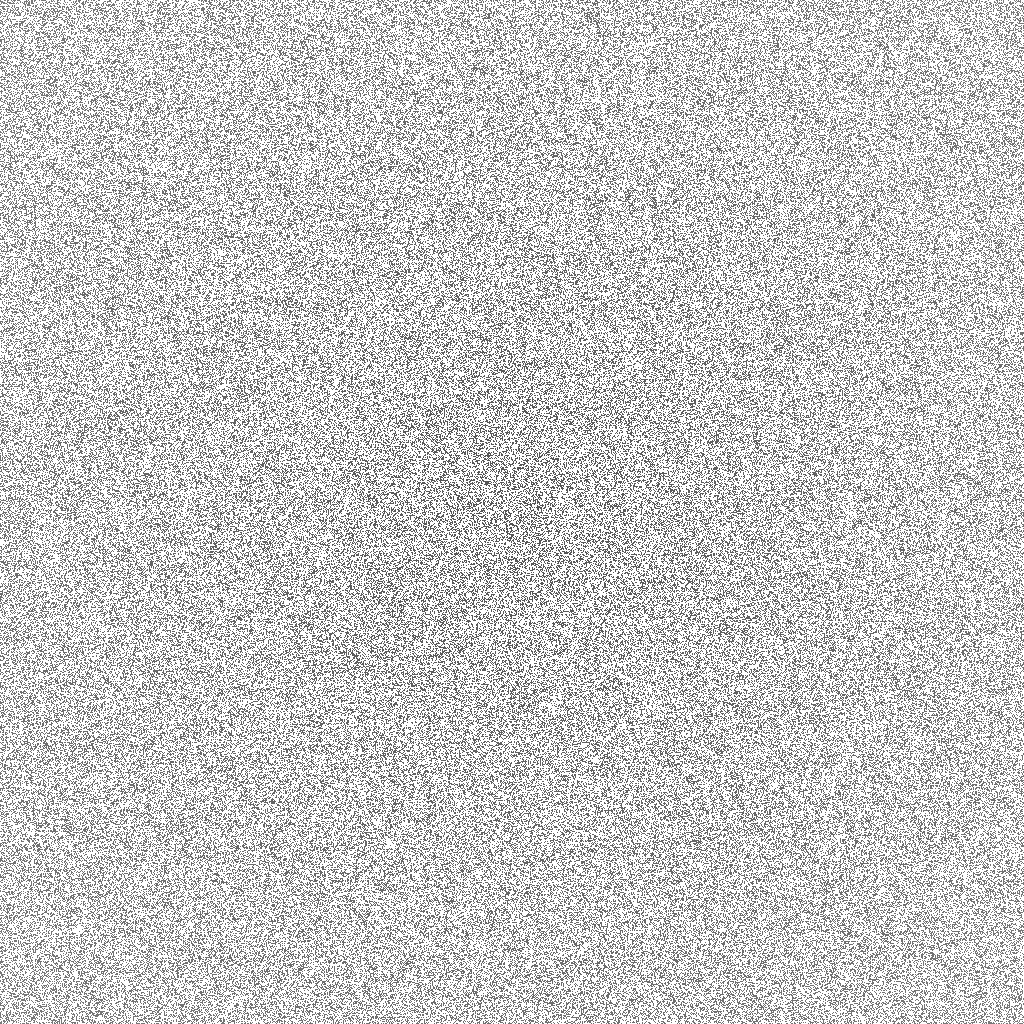
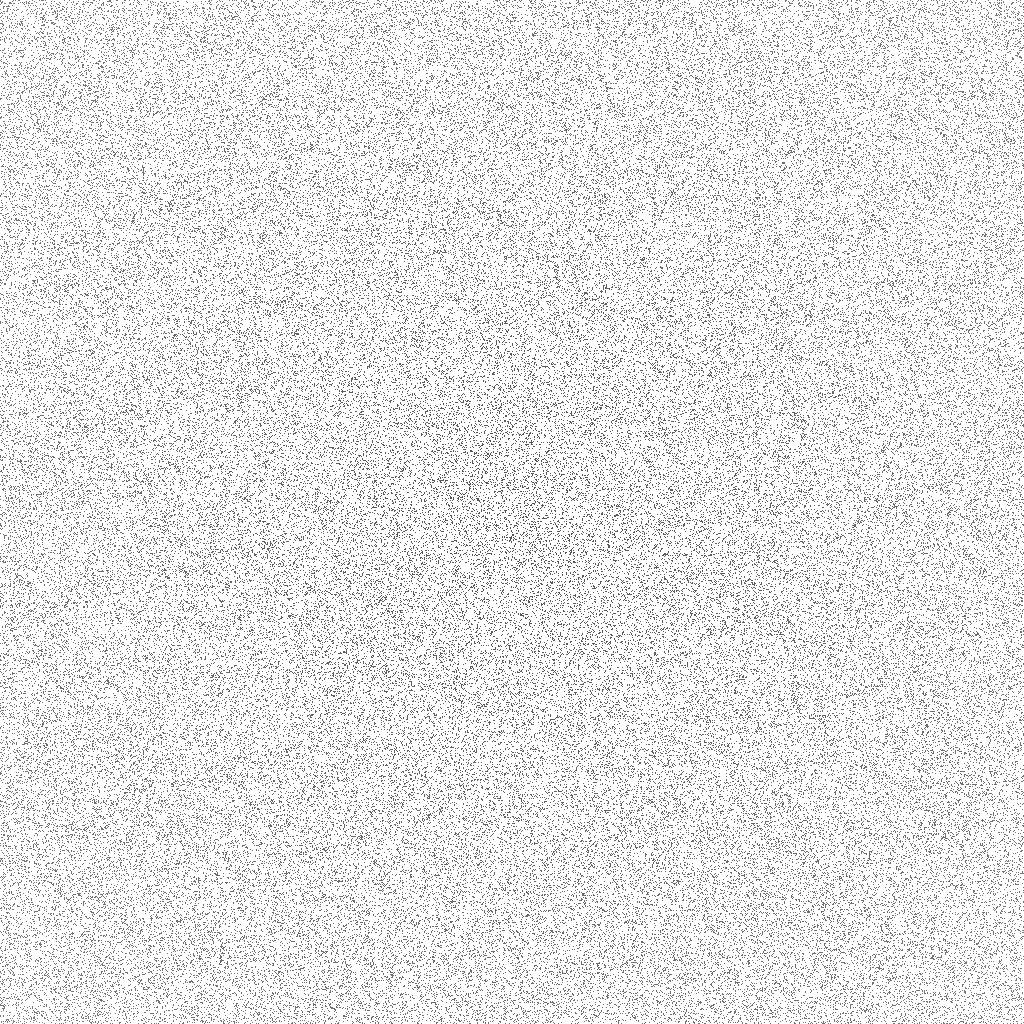
Testing noise containers

Changed region(s): [[0.0, 0.0, 1.0, 1.0]]

diff --git a/app/components/Hero/Hero.module.scss b/app/components/Hero/Hero.module.scss
@@ -6,14 +6,20 @@
   height: 100vh;
   height: 100dvh;
   margin-bottom: 6rem;
-  background: clr.$primary;
-  background-image: url("/images/noise-light.png");
-  background-repeat: repeat;
-  background-size: 250px;
-  z-index: -1;
+  background-color: clr.$primary;
   display: grid;
   place-items: center;
   position: relative;
+
+  .noise__container {
+    position: absolute;
+    top: 0;
+    left: 0;
+    width: 100%;
+    height: 100%;
+    opacity: 0.1;
+    background-image: url("/images/figmanoise.png");
+  }
 
   .hero__content__container {
     width: 100%;

diff --git a/app/components/morework/morework.module.scss b/app/components/morework/morework.module.scss
@@ -11,12 +11,24 @@
   border-radius: 2em 2em 0 0;
   z-index: 3;
 
+  .noise__container__white {
+    position: absolute;
+    top: 0;
+    left: 0;
+    width: 100%;
+    height: 100%;
+    opacity: 0.1;
+    background-image: url("/images/figmanoisewhite.png");
+    z-index: -1;
+  }
+
   .more__content {
     padding: 8rem 7rem 14rem;
     color: clr.$white;
     transition: all 0.5s ease, filter 0.5s ease;
     background-color: transparent;
     height: 100%;
+    z-index: 2;
 
     @include mq.desktopXL {
       padding: 8rem 3rem 12rem;

diff --git a/app/components/morework/page.tsx b/app/components/morework/page.tsx
@@ -40,6 +40,7 @@ export const MoreWork: React.FC<MoreWorkProps> = ({ id, scrollYProgress }) => {
 
   return (
     <motion.section className={styles.more__section} id={id} style={{ scale }}>
+      <div className={styles.noise__container__white}></div>
       <motion.div className={styles.more__content}>
         <BlurReveal isInView={isInView} duration={1.2} delay={0}>
           <h1

diff --git a/app/components/selectedwork/page.tsx b/app/components/selectedwork/page.tsx
@@ -20,6 +20,7 @@ export const SelectedWork: React.FC<SelectedWorkProps> = ({ id }) => {
 
   return (
     <motion.section id={id} className={styles.selected__container}>
+      <div className={styles.noise__container}></div>
       <div className={styles.selected__content__container}>
         <BlurReveal isInView={isInView} duration={1} delay={0}>
           <motion.h1

diff --git a/app/components/Hero/page.jsx b/app/components/Hero/page.jsx
@@ -18,6 +18,7 @@ export const Hero = ({ id }) => {
 
   return (
     <div className={`${styles.hero__container} ${styles.noise}`} id={id}>
+      <div className={styles.noise__container}></div>
       <div className={styles.hero__content__container}>
         <div className={styles.hero__mid}>
           {isTablet ? (

diff --git a/app/scss/globals.scss b/app/scss/globals.scss
@@ -136,3 +136,13 @@ $mobileXS: 23.125em; //370px
 .overflow__hidden {
   overflow: hidden;
 }
+
+.noise__container {
+  position: absolute;
+  top: 0;
+  left: 0;
+  width: 100%;
+  height: 100%;
+  opacity: 0.1;
+  background-image: url("/images/figmanoise.png");
+}

diff --git a/app/components/selectedwork/selectedwork.module.scss b/app/components/selectedwork/selectedwork.module.scss
@@ -5,7 +5,7 @@
   width: 100%;
   height: 100%;
   background-color: clr.$primary;
-  position: sticky;
+  position: relative;
   bottom: 0;
   display: grid;
   place-items: center;
